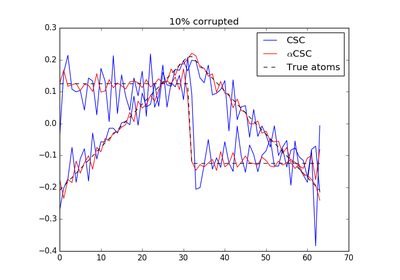
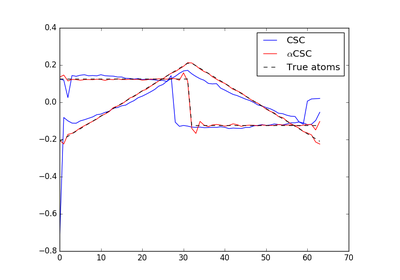
Make install

diff --git a/auto_examples/plot_simulate.html b/auto_examples/plot_simulate.html
@@ -136,15 +136,14 @@
 <span class="n">n_atoms</span> <span class="o">=</span> <span class="mi">2</span>  <span class="c1"># K</span>
 <span class="n">n_trials</span> <span class="o">=</span> <span class="mi">100</span>  <span class="c1"># N</span>
 
-<span class="n">reg</span> <span class="o">=</span> <span class="mf">0.1</span>
-<span class="n">alpha</span> <span class="o">=</span> <span class="mf">1.8</span>
+<span class="n">alpha</span> <span class="o">=</span> <span class="mf">1.2</span>
 </pre></div>
 </div>
 <p>Next, we define the parameters for alpha CSC</p>
-<div class="highlight-python"><div class="highlight"><pre><span></span><span class="n">n_iter_global</span> <span class="o">=</span> <span class="mi">5</span>
+<div class="highlight-python"><div class="highlight"><pre><span></span><span class="n">n_iter_global</span> <span class="o">=</span> <span class="mi">10</span>
 <span class="n">n_iter_optim</span> <span class="o">=</span> <span class="mi">20</span>
-<span class="n">n_iter_mcmc</span> <span class="o">=</span> <span class="mi">10</span>
-<span class="n">n_burnin_mcmc</span> <span class="o">=</span> <span class="mi">5</span>
+<span class="n">n_iter_mcmc</span> <span class="o">=</span> <span class="mi">100</span>
+<span class="n">n_burnin_mcmc</span> <span class="o">=</span> <span class="mi">50</span>
 
 <span class="n">n_iter</span> <span class="o">=</span> <span class="n">n_iter_global</span> <span class="o">*</span> <span class="n">n_iter_optim</span>  <span class="c1"># fair comparison</span>
 </pre></div>
@@ -158,32 +157,36 @@
 </pre></div>
 </div>
 <p>Add some noise and corrupt some trials</p>
-<div class="highlight-python"><div class="highlight"><pre><span></span><span class="kn">from</span> <span class="nn">alphacsc</span> <span class="kn">import</span> <span class="n">check_random_state</span> <span class="c1"># noqa</span>
+<div class="highlight-python"><div class="highlight"><pre><span></span><span class="kn">from</span> <span class="nn">scipy.stats</span> <span class="kn">import</span> <span class="n">levy_stable</span> <span class="c1"># noqa</span>
+<span class="kn">from</span> <span class="nn">alphacsc</span> <span class="kn">import</span> <span class="n">check_random_state</span> <span class="c1"># noqa</span>
 
-<span class="n">fraction_corrupted</span> <span class="o">=</span> <span class="mf">0.1</span>
+<span class="n">fraction_corrupted</span> <span class="o">=</span> <span class="mf">0.01</span>
 <span class="k">print</span><span class="p">(</span><span class="s1">&#39;fraction_corrupted: </span><span class="si">%0.2f</span><span class="s1">&#39;</span> <span class="o">%</span> <span class="n">fraction_corrupted</span><span class="p">)</span>
 <span class="n">n_corrupted_trials</span> <span class="o">=</span> <span class="nb">int</span><span class="p">(</span><span class="n">fraction_corrupted</span> <span class="o">*</span> <span class="n">n_trials</span><span class="p">)</span>
 
 <span class="c1"># Add stationary noise:</span>
 <span class="n">rng</span> <span class="o">=</span> <span class="n">check_random_state</span><span class="p">(</span><span class="n">random_state_simulate</span><span class="p">)</span>
 <span class="n">X</span> <span class="o">+=</span> <span class="mf">0.01</span> <span class="o">*</span> <span class="n">rng</span><span class="o">.</span><span class="n">randn</span><span class="p">(</span><span class="o">*</span><span class="n">X</span><span class="o">.</span><span class="n">shape</span><span class="p">)</span>
-<span class="n">noise_level</span> <span class="o">=</span> <span class="mf">0.005</span>
 
-<span class="c1"># add corrupted trials</span>
+<span class="n">noise_level</span> <span class="o">=</span> <span class="mf">0.005</span>
+<span class="c1"># add impulsive noise</span>
 <span class="k">if</span> <span class="n">n_corrupted_trials</span> <span class="o">&gt;</span> <span class="mi">0</span><span class="p">:</span>
     <span class="n">idx_corrupted</span> <span class="o">=</span> <span class="n">rng</span><span class="o">.</span><span class="n">randint</span><span class="p">(</span><span class="mi">0</span><span class="p">,</span> <span class="n">n_trials</span><span class="p">,</span>
                                 <span class="n">size</span><span class="o">=</span><span class="n">n_corrupted_trials</span><span class="p">)</span>
-    <span class="n">X</span><span class="p">[</span><span class="n">idx_corrupted</span><span class="p">]</span> <span class="o">+=</span> <span class="mf">0.1</span> <span class="o">*</span> <span class="n">rng</span><span class="o">.</span><span class="n">randn</span><span class="p">(</span><span class="n">n_corrupted_trials</span><span class="p">,</span> <span class="n">X</span><span class="o">.</span><span class="n">shape</span><span class="p">[</span><span class="mi">1</span><span class="p">])</span>
+    <span class="n">X</span><span class="p">[</span><span class="n">idx_corrupted</span><span class="p">]</span> <span class="o">+=</span> <span class="n">levy_stable</span><span class="o">.</span><span class="n">rvs</span><span class="p">(</span><span class="n">alpha</span><span class="p">,</span> <span class="mi">0</span><span class="p">,</span> <span class="n">loc</span><span class="o">=</span><span class="mi">0</span><span class="p">,</span> <span class="n">scale</span><span class="o">=</span><span class="n">noise_level</span><span class="p">,</span>
+                                        <span class="n">size</span><span class="o">=</span><span class="p">(</span><span class="n">n_corrupted_trials</span><span class="p">,</span> <span class="n">n_times</span><span class="p">),</span>
+                                        <span class="n">random_state</span><span class="o">=</span><span class="n">random_state_simulate</span><span class="p">)</span>
 </pre></div>
 </div>
 <p class="sphx-glr-script-out">Out:</p>
-<div class="sphx-glr-script-out highlight-default"><div class="highlight"><pre><span></span><span class="n">fraction_corrupted</span><span class="p">:</span> <span class="mf">0.10</span>
+<div class="sphx-glr-script-out highlight-default"><div class="highlight"><pre><span></span><span class="n">fraction_corrupted</span><span class="p">:</span> <span class="mf">0.01</span>
 </pre></div>
 </div>
 <p>Now, we run vanilla CSC on the data.</p>
 <div class="highlight-python"><div class="highlight"><pre><span></span><span class="kn">from</span> <span class="nn">functools</span> <span class="kn">import</span> <span class="n">partial</span> <span class="c1"># noqa</span>
 <span class="kn">from</span> <span class="nn">alphacsc</span> <span class="kn">import</span> <span class="n">learn_d_z</span><span class="p">,</span> <span class="n">update_d_block</span> <span class="c1"># noqa</span>
 
+<span class="n">reg</span> <span class="o">=</span> <span class="mf">0.2</span>  <span class="c1"># twice the regularization in alpha-CSC</span>
 <span class="n">random_state</span> <span class="o">=</span> <span class="mi">60</span>
 <span class="n">func</span> <span class="o">=</span> <span class="n">partial</span><span class="p">(</span><span class="n">update_d_block</span><span class="p">,</span> <span class="n">projection</span><span class="o">=</span><span class="s1">&#39;dual&#39;</span><span class="p">)</span>
 
@@ -196,12 +199,13 @@
 </pre></div>
 </div>
 <p class="sphx-glr-script-out">Out:</p>
-<div class="sphx-glr-script-out highlight-default"><div class="highlight"><pre><span></span><span class="o">....................................................................................................</span><span class="n">Vanilla</span> <span class="n">CSC</span>
+<div class="sphx-glr-script-out highlight-default"><div class="highlight"><pre><span></span><span class="o">........................................................................................................................................................................................................</span><span class="n">Vanilla</span> <span class="n">CSC</span>
 </pre></div>
 </div>
 <p>and then alpha CSC on the same data</p>
 <div class="highlight-python"><div class="highlight"><pre><span></span><span class="kn">from</span> <span class="nn">alphacsc</span> <span class="kn">import</span> <span class="n">learn_d_z_weighted</span> <span class="c1"># noqa</span>
 
+<span class="n">reg</span> <span class="o">=</span> <span class="mf">0.1</span>  <span class="c1"># let&#39;s give CSC the benefit of doubt :)</span>
 <span class="n">d_hat_mcem</span><span class="p">,</span> <span class="n">z_hat_mcem</span><span class="p">,</span> <span class="n">Tau</span> <span class="o">=</span> <span class="n">learn_d_z_weighted</span><span class="p">(</span>
     <span class="n">X</span><span class="p">,</span> <span class="n">n_atoms</span><span class="p">,</span> <span class="n">n_times_atom</span><span class="p">,</span> <span class="n">func_d</span><span class="o">=</span><span class="n">func</span><span class="p">,</span> <span class="n">reg</span><span class="o">=</span><span class="n">reg</span><span class="p">,</span> <span class="n">alpha</span><span class="o">=</span><span class="n">alpha</span><span class="p">,</span>
     <span class="n">solver_d_kwargs</span><span class="o">=</span><span class="nb">dict</span><span class="p">(</span><span class="n">factr</span><span class="o">=</span><span class="mi">100</span><span class="p">),</span> <span class="n">n_iter_global</span><span class="o">=</span><span class="n">n_iter_global</span><span class="p">,</span>
@@ -217,6 +221,11 @@
 <span class="o">....................</span><span class="n">Global</span> <span class="n">Iter</span><span class="p">:</span> <span class="mi">2</span>
 <span class="o">....................</span><span class="n">Global</span> <span class="n">Iter</span><span class="p">:</span> <span class="mi">3</span>
 <span class="o">....................</span><span class="n">Global</span> <span class="n">Iter</span><span class="p">:</span> <span class="mi">4</span>
+<span class="o">....................</span><span class="n">Global</span> <span class="n">Iter</span><span class="p">:</span> <span class="mi">5</span>
+<span class="o">....................</span><span class="n">Global</span> <span class="n">Iter</span><span class="p">:</span> <span class="mi">6</span>
+<span class="o">....................</span><span class="n">Global</span> <span class="n">Iter</span><span class="p">:</span> <span class="mi">7</span>
+<span class="o">....................</span><span class="n">Global</span> <span class="n">Iter</span><span class="p">:</span> <span class="mi">8</span>
+<span class="o">....................</span><span class="n">Global</span> <span class="n">Iter</span><span class="p">:</span> <span class="mi">9</span>
 </pre></div>
 </div>
 <p>Finally, let&#8217;s compare the results.</p>
@@ -227,14 +236,12 @@
 <span class="n">plt</span><span class="o">.</span><span class="n">plot</span><span class="p">(</span><span class="n">ds_true</span><span class="o">.</span><span class="n">T</span><span class="p">,</span> <span class="s1">&#39;k--&#39;</span><span class="p">,</span> <span class="n">label</span><span class="o">=</span><span class="s1">&#39;True atoms&#39;</span><span class="p">)</span>
 <span class="n">handles</span><span class="p">,</span> <span class="n">labels</span> <span class="o">=</span> <span class="n">plt</span><span class="o">.</span><span class="n">gca</span><span class="p">()</span><span class="o">.</span><span class="n">get_legend_handles_labels</span><span class="p">()</span>
 <span class="n">plt</span><span class="o">.</span><span class="n">legend</span><span class="p">(</span><span class="n">handles</span><span class="p">[::</span><span class="mi">2</span><span class="p">],</span> <span class="n">labels</span><span class="p">[::</span><span class="mi">2</span><span class="p">],</span> <span class="n">loc</span><span class="o">=</span><span class="s1">&#39;best&#39;</span><span class="p">)</span>
-
-<span class="n">plt</span><span class="o">.</span><span class="n">title</span><span class="p">(</span><span class="s1">&#39;</span><span class="si">%d%%</span><span class="s1"> corrupted&#39;</span> <span class="o">%</span> <span class="p">(</span><span class="n">fraction_corrupted</span> <span class="o">*</span> <span class="mi">100</span><span class="p">))</span>
 <span class="n">plt</span><span class="o">.</span><span class="n">show</span><span class="p">()</span>
 </pre></div>
 </div>
 <img alt="../_images/sphx_glr_plot_simulate_001.png" class="align-center" src="../_images/sphx_glr_plot_simulate_001.png" />
 <p><strong>Total running time of the script:</strong>
-(0 minutes 49.570 seconds)</p>
+(2 minutes 8.836 seconds)</p>
 <div class="sphx-glr-download docutils container">
 <strong>Download Python source code:</strong> <a class="reference download internal" href="../_downloads/plot_simulate.py" download=""><code class="xref download docutils literal"><span class="pre">plot_simulate.py</span></code></a></div>
 <div class="sphx-glr-download docutils container">

diff --git a/searchindex.js b/searchindex.js
@@ -1,1 +1,1 @@
-Search.setIndex({docnames:["api","auto_examples/index","auto_examples/plot_simulate","index"],envversion:50,filenames:["api.rst","auto_examples/index.rst","auto_examples/plot_simulate.rst","index.rst"],objects:{},objnames:{},objtypes:{},terms:{"\u015fim\u015fekli":3,"dupr\u00e9":3,"final":2,"function":0,"import":[2,3],"int":2,"true":2,Jas:[2,3],Then:3,Use:3,Using:3,add:2,admin:3,alexandr:2,alpha:[1,3],alphacsc:[2,3],anaconda:3,ani:3,arxiv:3,atom:2,author:2,best:2,brain:3,bsd:2,can:3,check:3,check_random_st:2,claus:2,code:[2,3],com:3,compar:2,comparison:2,comput:3,convolut:3,corrupt:2,csc:[1,3],d_hat:2,d_hat_mcem:2,data:[1,3],defin:2,demonstr:2,depend:3,dict:2,dictionari:3,distribut:3,download:2,ds_true:2,dual:2,dupr:2,duprelatour:2,egg:3,error:3,everyth:3,exampl:2,factr:2,fair:2,fine:3,first:[2,3],flag:3,fraction_corrupt:2,from:2,func:2,func_d:2,functool:2,gca:2,get_legend_handles_label:2,git:3,github:3,give:3,global:2,gramfort:[2,3],handl:2,have:3,here:2,http:3,idx_corrupt:2,index:[],ipynb:2,ipython:2,issu:3,iter:2,its:3,jas:2,l_bfg:2,label:2,learn:3,learn_d_z:2,learn_d_z_weight:2,legend:2,let:2,librari:3,licens:2,loc:2,mainak:2,matplotlib:[2,3],messag:3,minut:2,model:2,modul:[],morpholog:3,n_atom:2,n_burnin_mcmc:2,n_corrupted_tri:2,n_iter:2,n_iter_glob:2,n_iter_mcmc:2,n_iter_optim:2,n_iter_optim_init:[],n_job:2,n_time:2,n_times_atom:2,n_trial:2,need:3,neural:3,next:2,nois:2,noise_level:2,noqa:2,notebook:2,now:2,numpi:3,our:2,out:2,page:[],paramet:2,paristech:2,partial:2,perform:3,pip:3,plot:2,plot_simul:2,plt:2,pobj:2,preprint:3,print:2,privileg:3,project:2,provid:3,pyplot:2,python:[2,3],randint:2,randn:2,random_st:2,random_state_simul:2,recommend:3,reg:2,result:2,rng:2,run:2,same:2,scipi:3,script:2,search:[],second:2,seri:3,shape:2,should:3,show:2,signal:3,simsekli:2,simul:1,simulate_data:2,size:2,solver_d_kwarg:2,solver_z:2,some:2,sourc:2,spars:3,stabl:3,stationari:2,tau:2,telecom:2,thi:[2,3],time:[2,3],titl:2,tom:2,total:2,tour:[2,3],tracker:3,trial:2,umut:2,update_d_block:2,upgrad:3,use:3,user:3,vanilla:2,verbos:2,work:3,you:3,z_hat:2,z_hat_mcem:2,z_true:2},titles:["API Documentation","Examples Gallery","Alpha CSC on simulated data","Installation"],titleterms:{alpha:2,alphacsc:[],api:0,atom:0,bug:3,cite:3,csc:2,data:2,document:0,exampl:1,galleri:1,indic:[],instal:3,learn:0,math:[],report:3,simul:[0,2],tabl:[],welcom:[]}})
+Search.setIndex({docnames:["api","auto_examples/index","auto_examples/plot_simulate","index"],envversion:50,filenames:["api.rst","auto_examples/index.rst","auto_examples/plot_simulate.rst","index.rst"],objects:{},objnames:{},objtypes:{},terms:{"\u015fim\u015fekli":3,"dupr\u00e9":3,"final":2,"function":0,"import":[2,3],"int":2,"true":2,Jas:[2,3],Then:3,Use:3,Using:3,add:2,admin:3,alexandr:2,alpha:[1,3],alphacsc:[2,3],anaconda:3,ani:3,arxiv:3,atom:2,author:2,benefit:2,best:2,brain:3,bsd:2,can:3,check:3,check_random_st:2,claus:2,code:[2,3],com:3,compar:2,comparison:2,comput:3,convolut:3,corrupt:2,csc:[1,3],d_hat:2,d_hat_mcem:2,data:[1,3],defin:2,demonstr:2,depend:3,dict:2,dictionari:3,distribut:3,doubt:2,download:2,ds_true:2,dual:2,dupr:2,duprelatour:2,egg:3,error:3,everyth:3,exampl:2,factr:2,fair:2,fine:3,first:[2,3],flag:3,fraction_corrupt:2,from:2,func:2,func_d:2,functool:2,gca:2,get_legend_handles_label:2,git:3,github:3,give:[2,3],global:2,gramfort:[2,3],handl:2,have:3,here:2,http:3,idx_corrupt:2,impuls:2,index:[],ipynb:2,ipython:2,issu:3,iter:2,its:3,jas:2,l_bfg:2,label:2,learn:3,learn_d_z:2,learn_d_z_weight:2,legend:2,let:2,levy_st:2,librari:3,licens:2,loc:2,mainak:2,matplotlib:[2,3],messag:3,minut:2,model:2,modul:[],morpholog:3,n_atom:2,n_burnin_mcmc:2,n_corrupted_tri:2,n_iter:2,n_iter_glob:2,n_iter_mcmc:2,n_iter_optim:2,n_iter_optim_init:[],n_job:2,n_time:2,n_times_atom:2,n_trial:2,need:3,neural:3,next:2,nois:2,noise_level:2,noqa:2,notebook:2,now:2,numpi:3,our:2,out:2,page:[],paramet:2,paristech:2,partial:2,perform:3,pip:3,plot:2,plot_simul:2,plt:2,pobj:2,preprint:3,print:2,privileg:3,project:2,provid:3,pyplot:2,python:[2,3],randint:2,randn:2,random_st:2,random_state_simul:2,recommend:3,reg:2,regular:2,result:2,rng:2,run:2,rvs:2,same:2,scale:2,scipi:[2,3],script:2,search:[],second:2,seri:3,shape:2,should:3,show:2,signal:3,simsekli:2,simul:1,simulate_data:2,size:2,solver_d_kwarg:2,solver_z:2,some:2,sourc:2,spars:3,stabl:3,stat:2,stationari:2,tau:2,telecom:2,thi:[2,3],time:[2,3],titl:[],tom:2,total:2,tour:[2,3],tracker:3,trial:2,twice:2,umut:2,update_d_block:2,upgrad:3,use:3,user:3,vanilla:2,verbos:2,work:3,you:3,z_hat:2,z_hat_mcem:2,z_true:2},titles:["API Documentation","Examples Gallery","Alpha CSC on simulated data","Installation"],titleterms:{alpha:2,alphacsc:[],api:0,atom:0,bug:3,cite:3,csc:2,data:2,document:0,exampl:1,galleri:1,indic:[],instal:3,learn:0,math:[],report:3,simul:[0,2],tabl:[],welcom:[]}})

diff --git a/_downloads/plot_simulate.py b/_downloads/plot_simulate.py
@@ -21,16 +21,15 @@ n_times = 512  # T
 n_atoms = 2  # K
 n_trials = 100  # N
 
-reg = 0.1
-alpha = 1.8
+alpha = 1.2
 
 ###############################################################################
 # Next, we define the parameters for alpha CSC
 
-n_iter_global = 5
+n_iter_global = 10
 n_iter_optim = 20
-n_iter_mcmc = 10
-n_burnin_mcmc = 5
+n_iter_mcmc = 100
+n_burnin_mcmc = 50
 
 n_iter = n_iter_global * n_iter_optim  # fair comparison
 
@@ -46,22 +45,25 @@ X, ds_true, Z_true = simulate_data(n_trials, n_times, n_times_atom,
 ###############################################################################
 # Add some noise and corrupt some trials
 
+from scipy.stats import levy_stable # noqa
 from alphacsc import check_random_state # noqa
 
-fraction_corrupted = 0.1
+fraction_corrupted = 0.01
 print('fraction_corrupted: %0.2f' % fraction_corrupted)
 n_corrupted_trials = int(fraction_corrupted * n_trials)
 
 # Add stationary noise:
 rng = check_random_state(random_state_simulate)
 X += 0.01 * rng.randn(*X.shape)
-noise_level = 0.005
 
-# add corrupted trials
+noise_level = 0.005
+# add impulsive noise
 if n_corrupted_trials > 0:
     idx_corrupted = rng.randint(0, n_trials,
                                 size=n_corrupted_trials)
-    X[idx_corrupted] += 0.1 * rng.randn(n_corrupted_trials, X.shape[1])
+    X[idx_corrupted] += levy_stable.rvs(alpha, 0, loc=0, scale=noise_level,
+                                        size=(n_corrupted_trials, n_times),
+                                        random_state=random_state_simulate)
 
 ###############################################################################
 # Now, we run vanilla CSC on the data.
@@ -69,6 +71,7 @@ if n_corrupted_trials > 0:
 from functools import partial # noqa
 from alphacsc import learn_d_z, update_d_block # noqa
 
+reg = 0.2  # twice the regularization in alpha-CSC
 random_state = 60
 func = partial(update_d_block, projection='dual')
 
@@ -84,6 +87,7 @@ print('Vanilla CSC')
 
 from alphacsc import learn_d_z_weighted # noqa
 
+reg = 0.1  # let's give CSC the benefit of doubt :)
 d_hat_mcem, z_hat_mcem, Tau = learn_d_z_weighted(
     X, n_atoms, n_times_atom, func_d=func, reg=reg, alpha=alpha,
     solver_d_kwargs=dict(factr=100), n_iter_global=n_iter_global,
@@ -102,6 +106,4 @@ plt.plot(d_hat_mcem.T, 'r', label=r'$\alpha$CSC')
 plt.plot(ds_true.T, 'k--', label='True atoms')
 handles, labels = plt.gca().get_legend_handles_labels()
 plt.legend(handles[::2], labels[::2], loc='best')
-
-plt.title('%d%% corrupted' % (fraction_corrupted * 100))
 plt.show()
